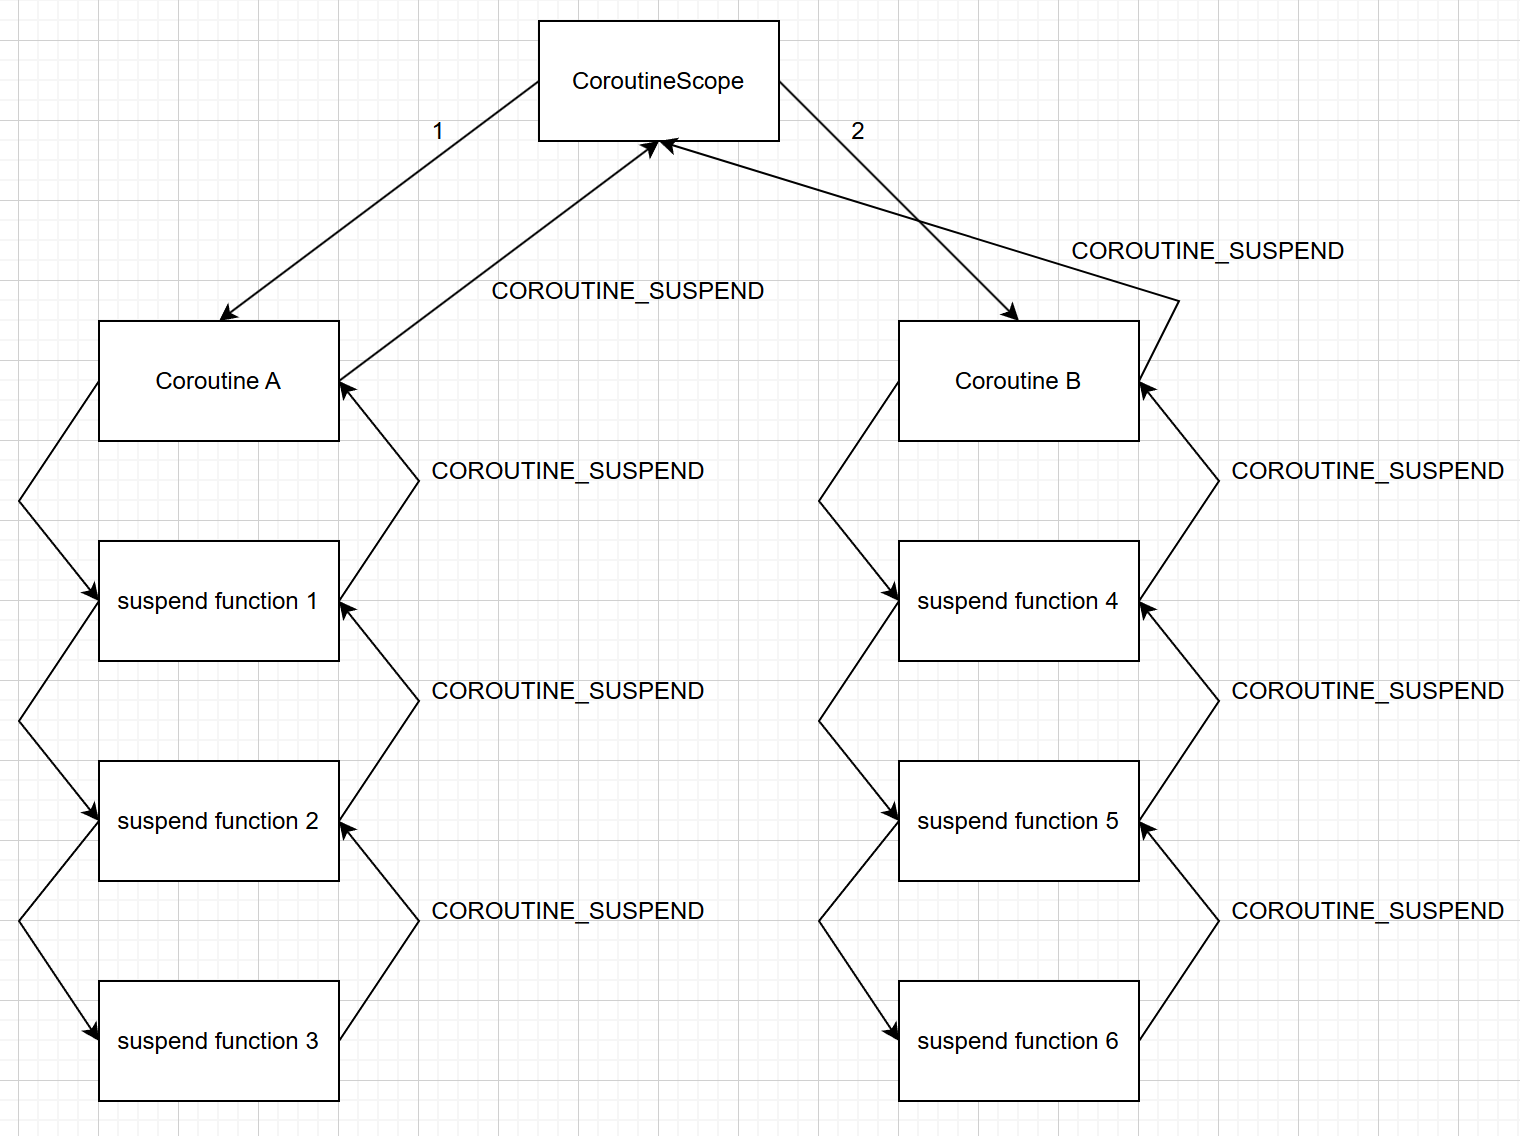
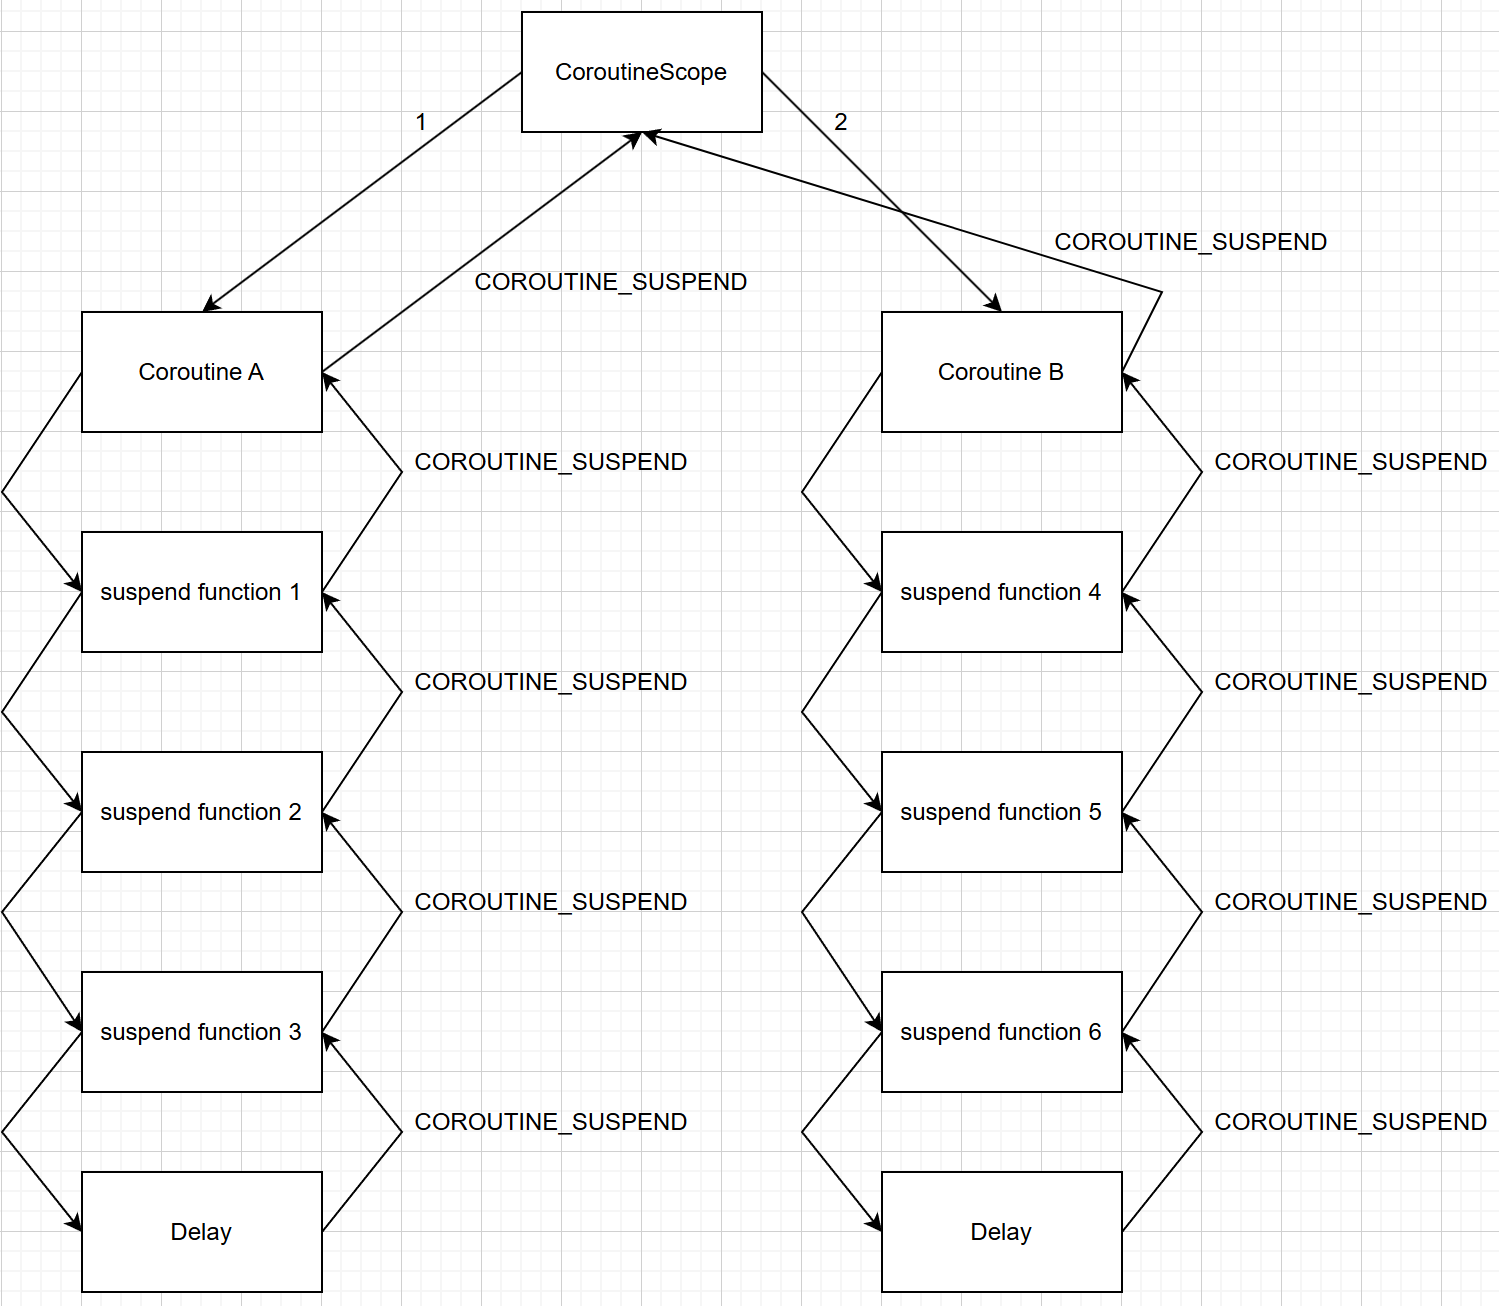
coroutine flow 포스팅

diff --git a/_posts/2024-09-05-Coroutine-flow.md b/_posts/2024-09-05-Coroutine-flow.md
@@ -1,0 +1,194 @@
+---
+title: "[Kotlin] Coroutine : Flow "
+categories:
+- Coroutines
+tags:
+- Study
+
+toc: true
+toc_sticky: true
+toc_label: 목차
+---
+
+코루틴의 플로우는 어원인 흐름에서 유추 가능하듯이 물이 흐르는 파이프나 시냇물 처럼 데이터가 흐르는 통로를 말합니다. 플로우 이전에 Kotlin.Coroutine 에서는 코루틴간에 통신을 위해서 Channel 을 제공하고 있었습니다. 채널은 생산자와 소비자가 있고 생산자가 데이터를 만들어 채널에 보내면(send), 소비자가 채널에 있는 데이터를 받을(receive)수 있는 구조입니다.
+
+# Channel
+
+채널은 인터페이스이며, 데이터를 송신하기 위한 SendChannel 과 데이터를 수신하기 위한 ReceiveChannel 인터페이스를 구현하고 있습니다.
+
+```kotlin
+public interface Channel<E> : SendChannel<E>, ReceiveChannel<E> {
+    /**
+     * Constants for the channel factory function `Channel()`.
+     */
+    public companion object Factory {
+
+        public const val UNLIMITED: Int = Int.MAX_VALUE
+
+        public const val RENDEZVOUS: Int = 0
+
+        public const val CONFLATED: Int = -1
+
+        public const val BUFFERED: Int = -2
+
+        internal const val OPTIONAL_CHANNEL = -3
+
+        public const val DEFAULT_BUFFER_PROPERTY_NAME: String = "kotlinx.coroutines.channels.defaultBuffer"
+
+        internal val CHANNEL_DEFAULT_CAPACITY = systemProp(DEFAULT_BUFFER_PROPERTY_NAME,
+            64, 1, UNLIMITED - 1
+        )
+    }
+}
+
+public interface SendChannel<in E> {
+    public suspend fun send(element: E)
+}
+
+public interface ReceiveChannel<out E> {
+    public suspend fun receive(): E
+}
+```
+
+채널의 생산자와 소비자는 다:다 관계이며 그 수에 제한이 없고, 채널은 FIFO 구조로 동작하기 때문에 소비자가 여럿이라도 같은 데이터를 중복해서 받을 수 없습니다. 
+
+우리가 통신 개념에서 익히 알듯이 생산자와 소비자간에 데이터 처리 속도의 차이에 따라 문제가 발생할 수 있어, 채널에는 BUFFER 가 있고 버퍼 공간의 크기(CAPACITY)와 버퍼가 가득 찼을 때 데이터를 어떻게 처리할 것 인지의 방법에 따라 타입이 나뉩니다.
+
+1. UNLIMITED: 채널의 버퍼의 크기가 무제한이어서 SendChannel#send 가 중단되지 않습니다.
+2. RENDEZVOUS: 채널 버퍼의 크기가 0이고, 생산자와 소비자가 모두 데이터를 송신 및 수신하고 있을 때만 데이터를 교환할 수 있습니다.
+3. CONFLATED: 채널의 버퍼의 크기가 1이고, 버퍼가 가득 찼을 때 가장 최신의 것을 유지합니다.
+4. BUFFERED: 채널의 버퍼의 크기가 특정 수 만큼을 가집니다.
+
+또 각 인터페이스의 메소드를 보면 해당 함수들이 suspend 인데, 데이터를 채널로 송신할 때 채널이 가득차 있거나, 데이터를 수신하려고 할 때 채널이 비어있을 때 중단됩니다. 
+
+이렇듯 코루틴이 데이터를 송수신할 수 있는 채널에는 버퍼개념이 있고 버퍼의 오버플로우시 어떻게 수행할 것인가 에 대한 전략도 가지고 있습니다. 생산자는 소비자가 없어도 채널로 데이터를 보낼 수 있고, 채널은 버퍼공간에 쌓아뒀다가 소비자가 수신을 하려 할 때 버퍼에 쌓인 데이터를 전달합니다.
+
+하지만, 이렇게 실시간으로 활성화 상태를 유지하는 채널은 그자체로 비용이 발생합니다. 또, 보통 외부에 데이터를 요청하고 응답받는 네트워크 통신에서는 지속적으로 활성화 되지 않고 요청을 했을 때 발생한 데이터를 응답받아 처리합니다. 이런 특징을 Cold Stream 이라고 하며, 채널과 같이 실시간으로 활성화(Live)되어 있는 것을 Hot Stream 이라고 합니다. 채널은 기본적으로 Hot 하고, 네트워크 통신과 같이 요청했을 때만 활성화 되는 Cold 를 지원하기 위해 Flow 가 제공되었습니다.
+
+# Cold Flow vs Hot Flow
+
+플로우는 기본적으로 Cold 합니다. 이런 특징은 Java 의 Stream 이나, Kotlin 의 Sequence 에서도 볼 수 있습니다. 
+
+```kotlin
+sequenceOf(1,2,3,4)
+    .map { i ->
+        println("m$i")
+        i
+    }.filter { i ->
+        println("f$i")
+        i % 2 == 0
+    }.toList()
+
+결과: m1 f1 m2 f2 m3 f3 m4 f4
+```
+
+sequence 는 toList(),  sum() 과 같은 최종 연산이 수행될 때 한 원소에 대해 모든 중간연산과 최종연산을 수행하는 방식으로 실행됩니다. 
+
+이렇듯 Cold Flow 에서도 값을 방출(emit) 한 뒤 수행되는 중간 연산(map, filter 등)은 지연된 후 collect 와 같은 최종연산자에서 모든 연산들이 실행된 결과를 반환 받을 수 있습니다. 이런 특징으로 Data Layer 에서 데이터를 비동기적으로 요청하는 데이터 로직을 처리할 때 사용합니다.
+
+반면에, 안드로이드와 같은 클라이언트 환경에서는 UI 의 이벤트를 구독하다가 발생하면 바로 데이터를 변경하고, 변경된 데이터를 화면에 띄워주기 위한 흐름을 구현하는 것과 같은 반응형 프로그래밍 패러다임 적용을 필요로 합니다. 따라서 실시간으로 활성화 되어 있어야 하며, 옵저버패턴으로 일련의 동작들이 단계적으로 실행되어야 하는 Hot Flow 를 이용합니다.
+
+Hot Flow 는 채널처럼 collect 와 같은 최종 연산이 없어도 활성화 되어 있습니다. 따라서, 언제든지 값이 방출(emit) 되면 replyCache 만큼 최신의 데이터를 가지고 있다가 구독자가 collect 시점에 데이터를 소비할 수 있습니다. 또한, 채널과 달리 구독자가 구독을 시작한 뒤로 어떤 문제로 인해 데이터를 받지못할 때 extraBufferCapacity 만큼 데이터를 오버플로우 전략에 따라 관리하면서 들고 있을 수 있습니다. 
+
+Hot Flow에는 Shared Flow와 SharedFlow를 상속하는 State Flow 로 나뉘게 되며 조금의 다른 특징을 갖습니다.
+
+# StateFlow vs SharedFlow
+SharedFlow  를 생성하기 위해서 MutableSharedFlow() 팩토리함수를 이용합니다.
+
+```kotlin
+public fun <T> MutableSharedFlow(
+    replay: Int = 0,
+    extraBufferCapacity: Int = 0,
+    onBufferOverflow: BufferOverflow = BufferOverflow.SUSPEND
+): MutableSharedFlow<T> {
+    require(replay >= 0) { "replay cannot be negative, but was $replay" }
+    require(extraBufferCapacity >= 0) { "extraBufferCapacity cannot be negative, but was $extraBufferCapacity" }
+    require(replay > 0 || extraBufferCapacity > 0 || onBufferOverflow == BufferOverflow.SUSPEND) {
+        "replay or extraBufferCapacity must be positive with non-default onBufferOverflow strategy $onBufferOverflow"
+    }
+    val bufferCapacity0 = replay + extraBufferCapacity
+    val bufferCapacity = if (bufferCapacity0 < 0) Int.MAX_VALUE else bufferCapacity0 // coerce to MAX_VALUE on overflow
+    return SharedFlowImpl(replay, bufferCapacity, onBufferOverflow)
+}
+```
+
+SharedFlow 를 만들기 위해 필요한 매개변수는 reply(구독 시점 이전 데이터를 몇개 받을 지), extraBufferCapacity(버퍼의 크기), onBufferOverFlow(오버플로우 전략) 입니다.  SharedFlow 는 현재값을 들고 있지 않기 때문에 구독자가 데이터를 소비하고 나면 소실되기 때문에 보통 이벤트를 처리하는 용도로 사용됩니다.
+
+StateFlow 는 SharedFlow 를 상속받지만 replyCache가 1이고, extraBufferCapacity가 1이며, 버퍼가 가득찼을 때 가장 오래된 데이터를 제거하며, value 프로퍼티로 __현재 상태값__을 계속 들고 있습니다.
+
+```kotlin
+public fun <T> MutableStateFlow(value: T): MutableStateFlow<T> = StateFlowImpl(value ?: NULL)
+
+private class StateFlowImpl<T>(
+    initialState: Any // T | NULL
+) : AbstractSharedFlow<StateFlowSlot>(), MutableStateFlow<T>, CancellableFlow<T>, FusibleFlow<T> {
+
+    @Suppress("UNCHECKED_CAST")
+    public override var value: T
+        get() = NULL.unbox(_state.value)
+        set(value) { updateState(null, value ?: NULL) }
+
+    override fun compareAndSet(expect: T, update: T): Boolean =
+        updateState(expect ?: NULL, update ?: NULL)
+
+    override val replayCache: List<T>
+        get() = listOf(value)
+
+    override fun tryEmit(value: T): Boolean {
+        this.value = value
+        return true
+    }
+
+    override suspend fun emit(value: T) {
+        this.value = value
+    }
+
+    override suspend fun collect(collector: FlowCollector<T>): Nothing {
+        val slot = allocateSlot()
+        try {
+            if (collector is SubscribedFlowCollector) collector.onSubscription()
+            val collectorJob = currentCoroutineContext()[Job]
+            var oldState: Any? = null // previously emitted T!! | NULL (null -- nothing emitted yet)
+            // The loop is arranged so that it starts delivering current value without waiting first
+            while (true) {
+                // Here the coroutine could have waited for a while to be dispatched,
+                // so we use the most recent state here to ensure the best possible conflation of stale values
+                val newState = _state.value
+                // always check for cancellation
+                collectorJob?.ensureActive()
+                // Conflate value emissions using equality
+                if (oldState == null || oldState != newState) {
+                    collector.emit(NULL.unbox(newState))
+                    oldState = newState
+                }
+                // Note: if awaitPending is cancelled, then it bails out of this loop and calls freeSlot
+                if (!slot.takePending()) { // try fast-path without suspending first
+                    slot.awaitPending() // only suspend for new values when needed
+                }
+            }
+        } finally {
+            freeSlot(slot)
+        }
+    }
+
+    override fun fuse(context: CoroutineContext, capacity: Int, onBufferOverflow: BufferOverflow) =
+        fuseStateFlow(context, capacity, onBufferOverflow)
+}
+
+internal fun <T> StateFlow<T>.fuseStateFlow(
+    context: CoroutineContext,
+    capacity: Int,
+    onBufferOverflow: BufferOverflow
+): Flow<T> {
+    // state flow is always conflated so additional conflation does not have any effect
+    assert { capacity != Channel.CONFLATED } // should be desugared by callers
+    if ((capacity in 0..1 || capacity == Channel.BUFFERED) && onBufferOverflow == BufferOverflow.DROP_OLDEST) {
+        return this
+    }
+    return fuseSharedFlow(context, capacity, onBufferOverflow)
+}
+```
+
+StateFlow 의 가장 큰 차이점은 value 프로퍼티 입니다. 이름 그대로 현재 상태를 value 값을 통해 노출하며, replyCache 는 value값을 list에 담아 두고 있어 구독시점에 해당 현재 상태값을 바로 받아볼 수 있습니다. 또 현재 상태값은 비워 둘 수 없기 때문에 MutableStateFlow() 팩토리 함수로 초기값을 받아 value 로 할당합니다. 또 멀티스레드 환경 최적화를 위해 내부적으로 compareAndSet() 을 이용합니다.
+
+따라서 UI 이벤트를 처리하는 것은 SharedFlow 로, UI 의 text와 같은 상태값을 노출하는 용도로는 StateFlow 를 이용하는 것이 좋습니다.

diff --git a/_posts/2024-09-03-Coroutine-suspend.md b/_posts/2024-09-03-Coroutine-suspend.md
@@ -75,17 +75,11 @@ suspend fun getResultsFromApi(cont: Continuation<String>): Any {
         var label = 0
         var data = ""
 
-        override fun resumeWith(result: Result<String>) {
-            val res = try {
-                val r = getResultsFromApi(this)
-                if (r == COROUTINE_SUSPEND)
-                    return
-
-                Result.success(r as String)
-            } catch (e: Throwable) {
-                Result.failure(e)
-            }
-            cont.resumeWith(res)
+        @Nullable
+        public final Object invokeSuspend(@NotNull Object $result) {
+            this.result = $result;
+            this.label |= Integer.MIN_VALUE;
+            return DeleteCollectionUsecase.this.invoke((List)null, (Continuation)this);
         }
     }
 
@@ -109,7 +103,9 @@ suspend fun getResultsFromApi(cont: Continuation<String>): Any {
 
 ```
 
-생성된 Continuation 인스턴스는 getResultsFromApi() 함수만의 새로운 Continuation 클래스로 decorate 되고, 함수의 지역변수들과 실행 흐름을 저장하기 위한 label 을 가지면서 콜스택을 유지할 수 있습니다. 
+생성된 Continuation 인스턴스는 getResultsFromApi() 함수만의 새로운 Continuation 인스턴스인 ContinuationImpl로 decorate 됩니다. ContinuationImpl 인스턴스가 구현하고 있는 invokeSuspend() 는 중단지점을 생성하는 함수입니다. 이후에 재개될 때 invokeSuspend() 를 호출하여 중단을 호출했던 함수로 재개하고 label 값으로 이전의 실행흐름에서 이어 나갈 수 있습니다. 
+
+궁극적으로 Continuation 은 중단함수의 지역변수들과 실행 흐름을 저장하기 위한 label(suspention point 를 분리하는 목적) 을 가지면서 콜스택을 유지합니다.
 
 ## Call Stack
 
@@ -126,21 +122,64 @@ suspend fun getResultsFromApi(cont: Continuation<String>): Any {
 3. 부모 코루틴이 취소되면, 자식 코루틴들도 모두 취소됩니다.
 4. 자식 코루틴에서 발생한 예외는 부모 코루틴으로 전파되며, 모두 완료됩니다. 단, CancellationException(취소로 인한 예외) 은 전파되지 않습니다.
 
-kotlin compiler 는 suspend 함수 호출을 기준으로 switch-case 문으로 labeling 하게 됩니다. label 정보는 현재의 실행 흐름을 판단하는 기준이 되며 Continuation 내에 저장됩니다. 또, suspend 함수의 반환 타입이 Any 인 이유는 중단함수는 COROUTINE_SUSPEND 라는 상수를 리턴하기 때문입니다.
+kotlin compiler 는 suspention point 를 기준으로 switch-case 문으로 labeling 하게 됩니다. label 정보는 현재의 실행 흐름을 판단하는 기준이 되며 Continuation 내에 저장됩니다. 또, suspend 함수의 반환 타입이 Any 인 이유는 중단함수는 COROUTINE_SUSPEND 라는 상수를 리턴하기 때문입니다.
 
 ## COROUTINE_SUSPEND
 
-앞서 보았듯이 중단함수가 호출되면, 해당 지점에서 코루틴은 __중단__ 되어 현재의 코루틴이 스레드를 내놓고 다른 코루틴이 스레드를 점유하게 됩니다. 이를 통해 스레드를 블로킹하지 않아 더 나은 성능을 보장할 수 있습니다. 이러한 동작이 수행되는 이유는 중단함수가 COROUTINE_SUSPEND 를 반환하기 때문입니다.
+앞서 보았듯이 중단함수가 호출되면, 해당 지점에서 코루틴은 __중단__ 되어 현재의 코루틴이 스레드를 내놓고 다른 코루틴이 스레드를 점유할 수 있게 됩니다. 이를 통해 스레드를 블로킹하지 않아 더 효과적으로 동작할 수 있습니다.(이 때문에 코루틴이 lightweightened Thread 라고 불립니다.) 이러한 동작이 수행되는 이유는 중단함수가 COROUTINE_SUSPEND 를 반환하기 때문입니다.
 
-COROUTINE_SUSPEND 는 단순히 상수이며, 이 값이 리턴되면 콜스택의 끝까지 해당 상수를 리턴합니다. 결론적으로 해당 콜스택을 벗어나게 되고, 다른 코루틴이 스레드를 점유할 수 있게 되는 것 입니다.
+COROUTINE_SUSPEND 는 단순히 상수이며, 이 값이 리턴되면 콜스택의 끝까지 해당 상수를 리턴합니다. 결론적으로 콜스택을 벗어나게 되고, 재개되기 전까지 다른 코루틴이 스레드를 점유할 수 있게 되는 것 입니다.
 
 ![suspend_coroutine](/assets/coroutine_suspendCoroutine.PNG)
 
-위 사진에서 코루틴스쿠프가 실행되면 코루틴 A 가 스레드를 점유합니다.(여기서는 설명을 위해 단일스레드라고 생각하겠습니다. 실제로는 디스패쳐가 가지고 있는 스레드풀의 워커스레드들이 FIFO 구조로 각 작업을 실행하게 됩니다.) 이후 suspend function 1 을 실행하면서 결과적으로 suspend function 3까지 실행된 후 COROUTINE_SUSPEND 를 콜스택 전체에서 반환하면서 벗어나면서 코루틴 B가 스레드를 점유합니다. 다시, 코루틴 B의 suspend function 4 를 호출하면 결과적으로 suspend function 6 까지 실행된 후 COROUTINE_SUSPEND 를 반환하면서 콜스택에서 벗어나고 코루틴 A가 스레드를 점유합니다. 위의 실행 흐름으로 코루틴들의 코드들이 모두 실행됩니다.
+위 사진에서 코루틴스쿠프가 실행되면 코루틴 A 가 스레드를 점유합니다. 이후 suspend function 1 을 실행하면서 결과적으로 suspend function 3까지 실행된 후 Delay() 의 반환값인 COROUTINE_SUSPEND 를 반환하면서 콜스택을 벗어나고 코루틴 B가 스레드를 점유합니다.(여기서는 설명을 위해 싱글스레드라고 생각하겠습니다. 실제로는 디스패쳐에 따라 Dispathcers.Main 이 아니라면 스레드풀의 여러 워커 스레드들이 FIFO 구조로 각 작업을 실행하게 되기 때문에 코루틴 A가 재개되기 전까지 반드시 해당 스레드를 코루틴 B가 점유할 거라고 볼 수도 없으며 같은 스레드로 코루틴A가 재개될 거라는 보장도 없습니다.) 
+
+다시, 코루틴 B의 suspend function 4 를 호출하면 결과적으로 suspend function 6 까지 실행된 후 Delay() 의 반환값인 COROUTINE_SUSPEND 를 반환하면서 콜스택에서 벗어나고 재개된 코루틴 A가 스레드를 점유하면서 이전 실행 흐름인 suspend function 3 에서 작업을 재개합니다. 해당 중단함수는 I/O 작업이나 Delay 같은 기다려야 하는 작업이 없다면 즉시 결과값을 반환하면서 이전의 suspend function 2 에서 재개되며, 이러한 흐름으로 모든 중단함수를 실행한 코루틴이 완료(completed)됩니다.
 
 그렇다면 콜스택에서 벗어난 뒤, 다시 원래의 실행흐름으로 어떻게 돌아올까요?
 
 ## ResumeWith()
 
-결론적으로 중단된 코루틴을 재개하기 위해서는 Continuation 인터페이스의 resumeWith() 를 호출해야 합니다. 함수의 실행이 끝나면 외부에서 resumeWith() 를 호출하면서 중단 지점부터 재개하게 되며, 최초 호출 함수까지 중단함수를 재개하면서 코루틴이 완료(Completed)됩니다.
+결론적으로 중단된 코루틴을 재개하기 위해서는 Continuation 인터페이스의 resumeWith() 를 호출해야 합니다. 함수의 실행이 끝나면 외부에서 resumeWith() 를 호출하면서 중단 지점부터 재개하게 되며, 최초 호출 함수까지 중단함수를 차례로 재개하면서 결과값을 반환하게 되고 코루틴이 완료(Completed)됩니다.
 
+```kotlin
+internal abstract class BaseContinuationImpl(
+    // This is `public val` so that it is private on JVM and cannot be modified by untrusted code, yet
+    // it has a public getter (since even untrusted code is allowed to inspect its call stack).
+    public val completion: Continuation<Any?>?
+) : Continuation<Any?>, CoroutineStackFrame, Serializable {
+    // This implementation is final. This fact is used to unroll resumeWith recursion.
+    public final override fun resumeWith(result: Result<Any?>) {
+        // This loop unrolls recursion in current.resumeWith(param) to make saner and shorter stack traces on resume
+        var current = this
+        var param = result
+        while (true) {
+            // Invoke "resume" debug probe on every resumed continuation, so that a debugging library infrastructure
+            // can precisely track what part of suspended callstack was already resumed
+            probeCoroutineResumed(current)
+            with(current) {
+                val completion = completion!! // fail fast when trying to resume continuation without completion
+                val outcome: Result<Any?> =
+                    try {
+                        val outcome = invokeSuspend(param)
+                        if (outcome === COROUTINE_SUSPENDED) return
+                        Result.success(outcome)
+                    } catch (exception: Throwable) {
+                        Result.failure(exception)
+                    }
+                releaseIntercepted() // this state machine instance is terminating
+                if (completion is BaseContinuationImpl) {
+                    // unrolling recursion via loop
+                    current = completion
+                    param = outcome
+                } else {
+                    // top-level completion reached -- invoke and return
+                    completion.resumeWith(outcome)
+                    return
+                }
+            }
+        }
+    }
+```
+
+위의 예시에서 바이트코드로 보았던 ContinuationImpl 인스턴스는 BaseContinuationImpl 추상클래스를 상속하고 있으며 여기서 resumeWith() 를 구현하고 있습니다. 결론적으로 여기서 중단함수의 결과값을 리턴하고 이전 중단지점 이었던 함수를 재실행하여 중단지점에서 재개하게 됩니다. 또한 예외처리 역시 지원되고 있습니다.
